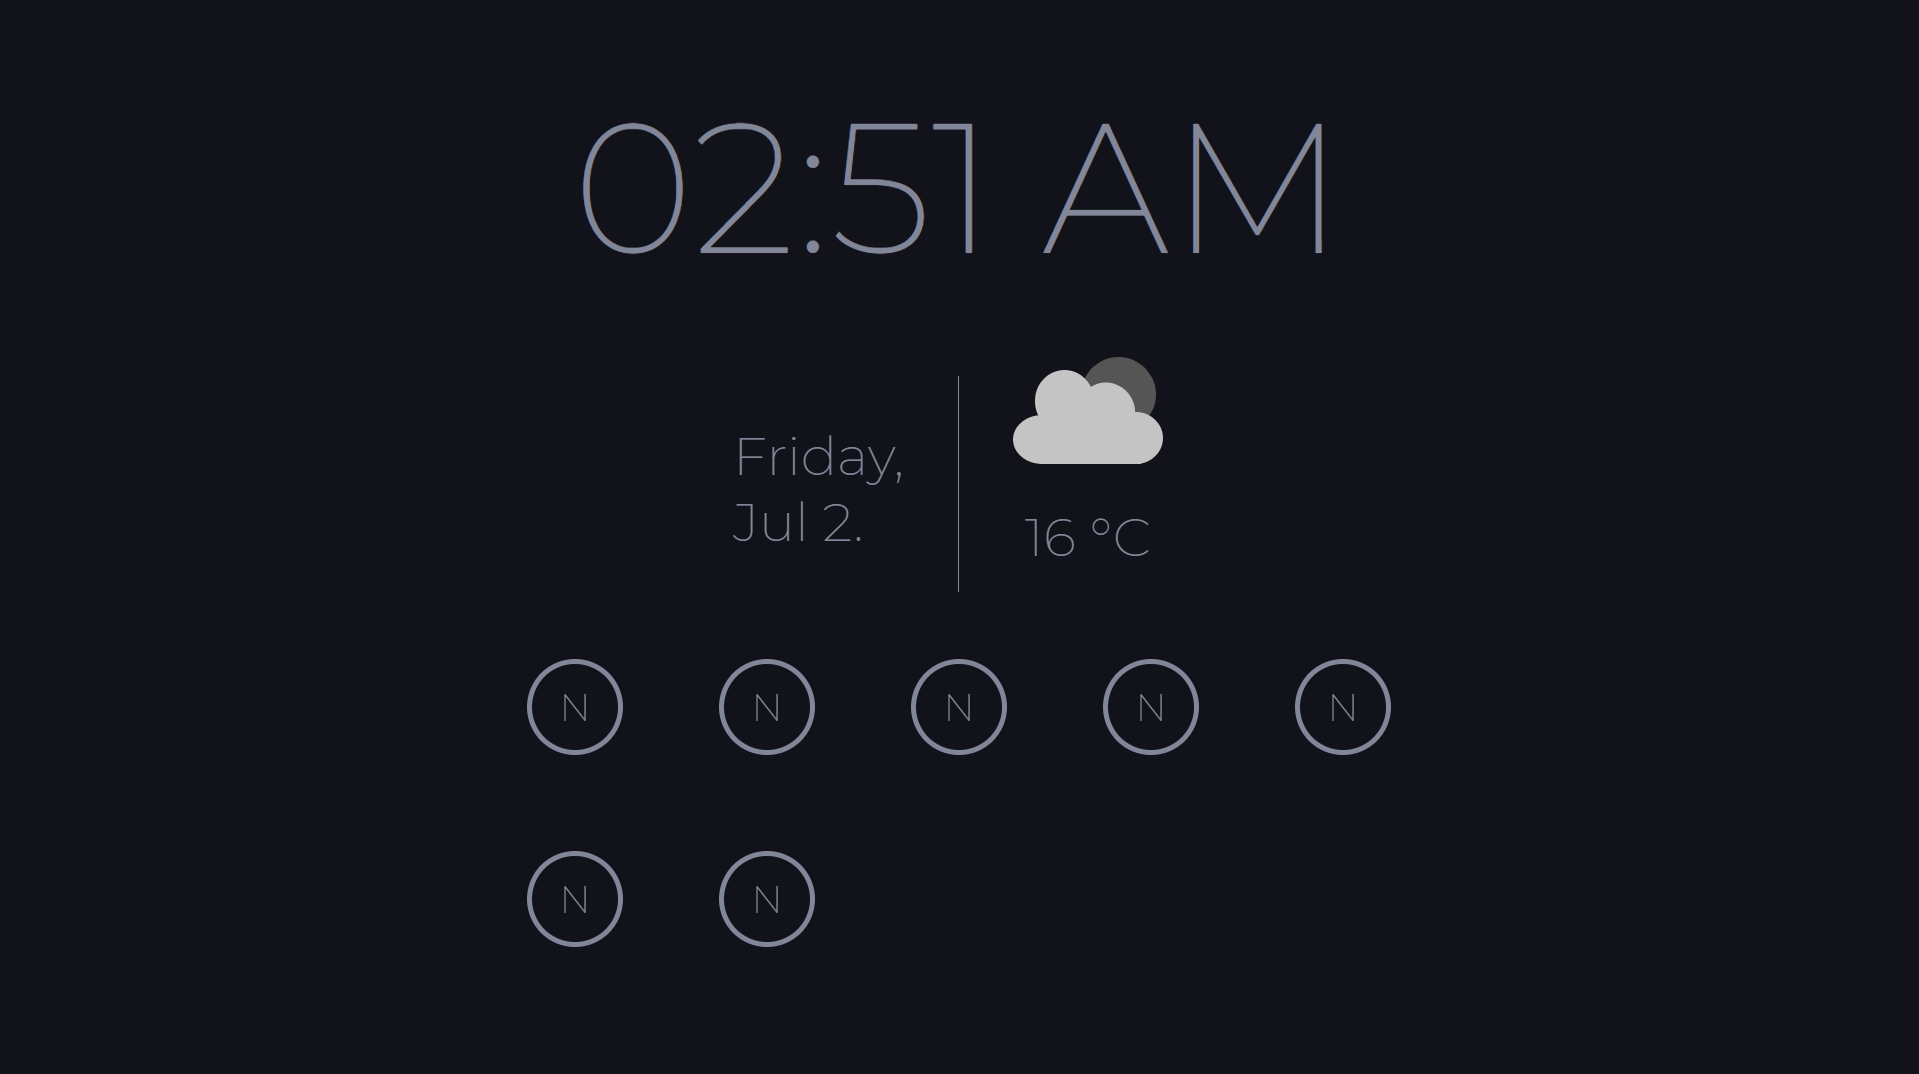
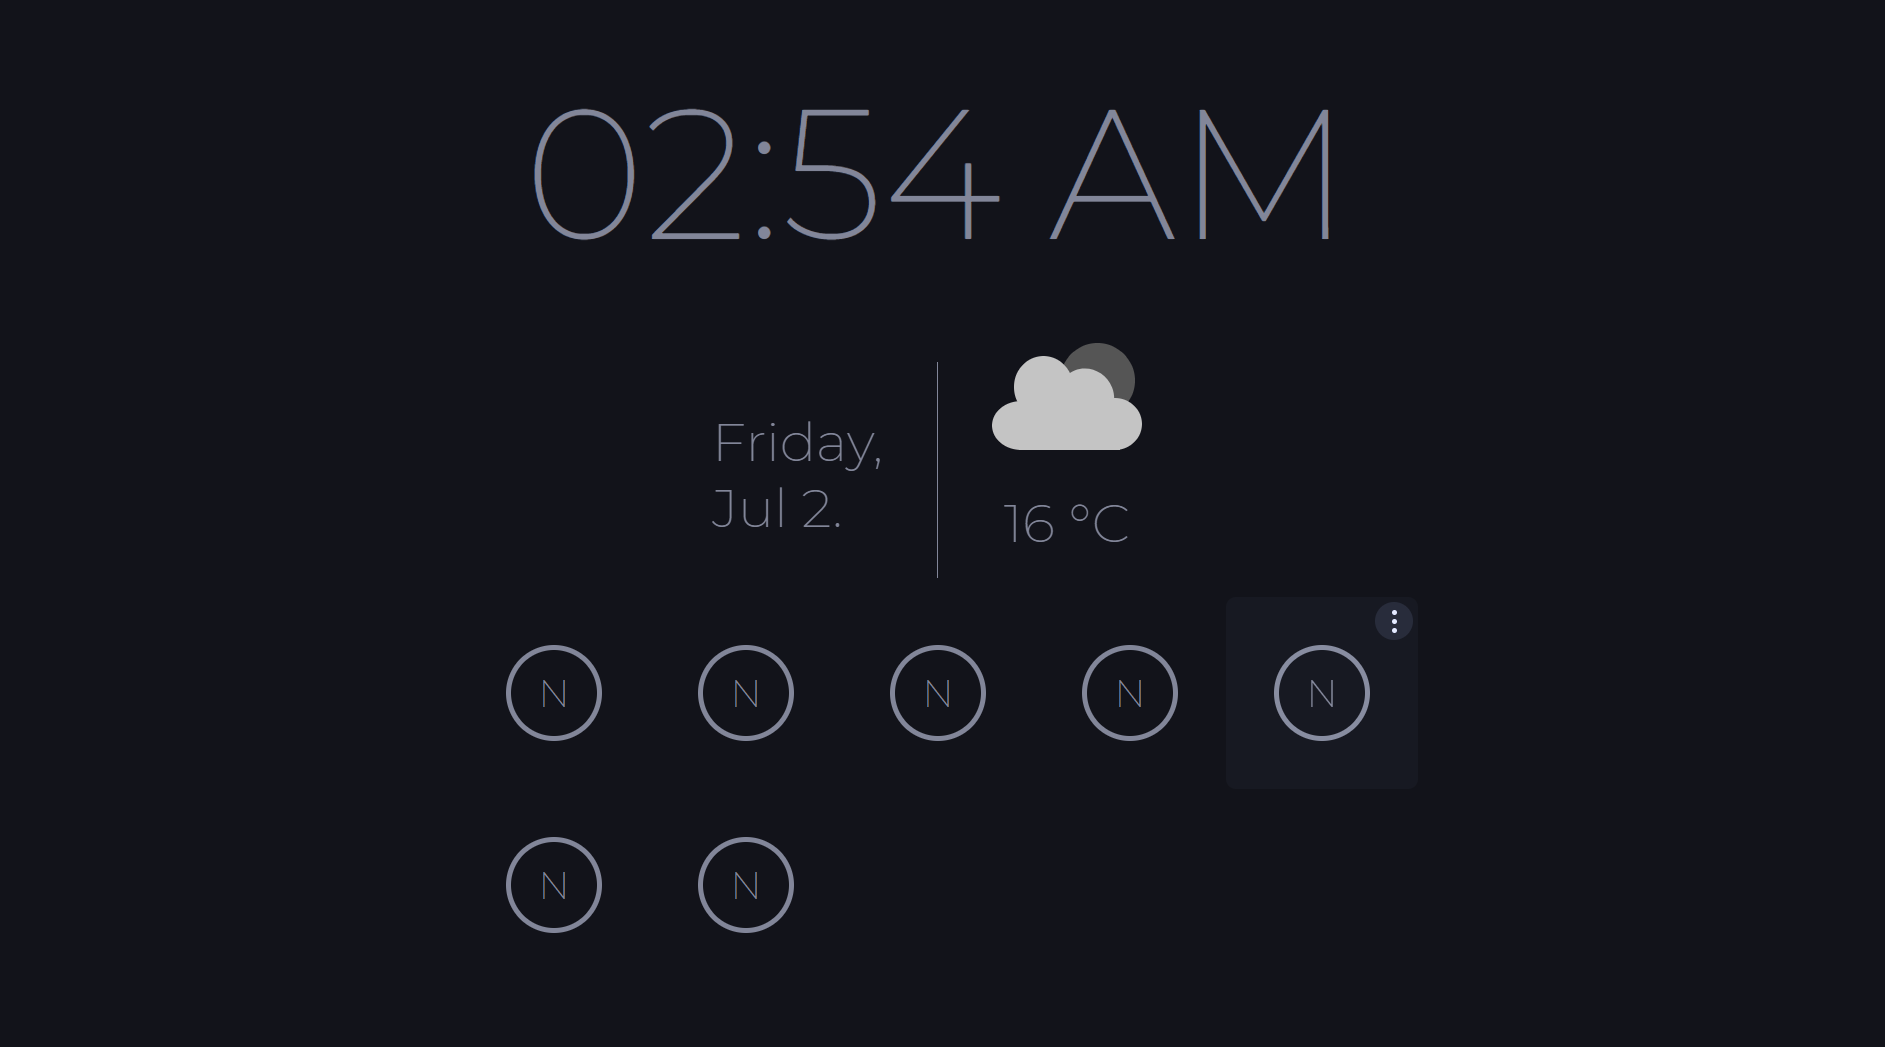
Updated screenshot

diff --git a/README.md b/README.md
@@ -1,5 +1,5 @@
 # web-extension
-A web extension that changes the default new tab in chrome to display your name, local weather, and tasks for the day.
+A web extension that changes the default new tab in chrome to display your name, local weather, and custom shortcuts.
 
 
 ![Screenshot](public/webextension.PNG)
